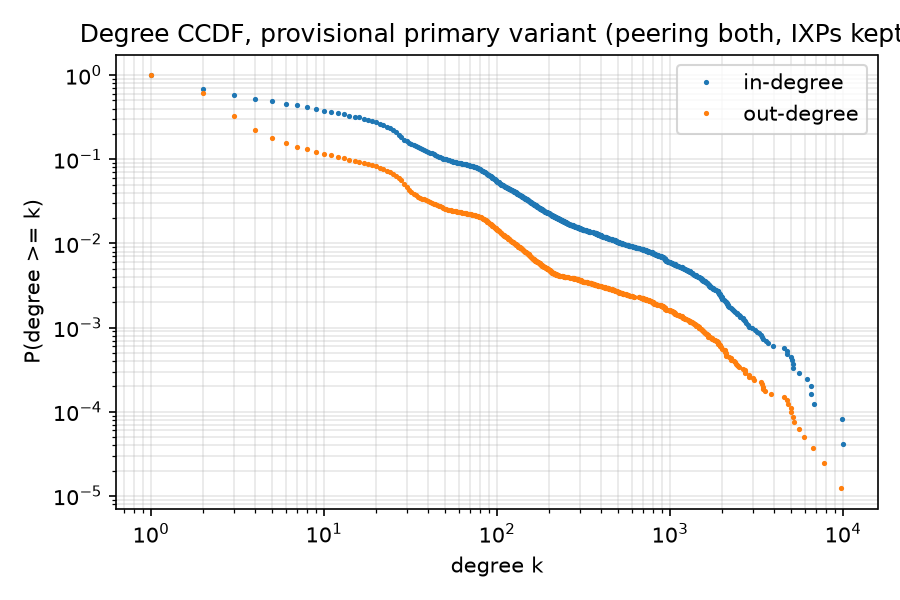
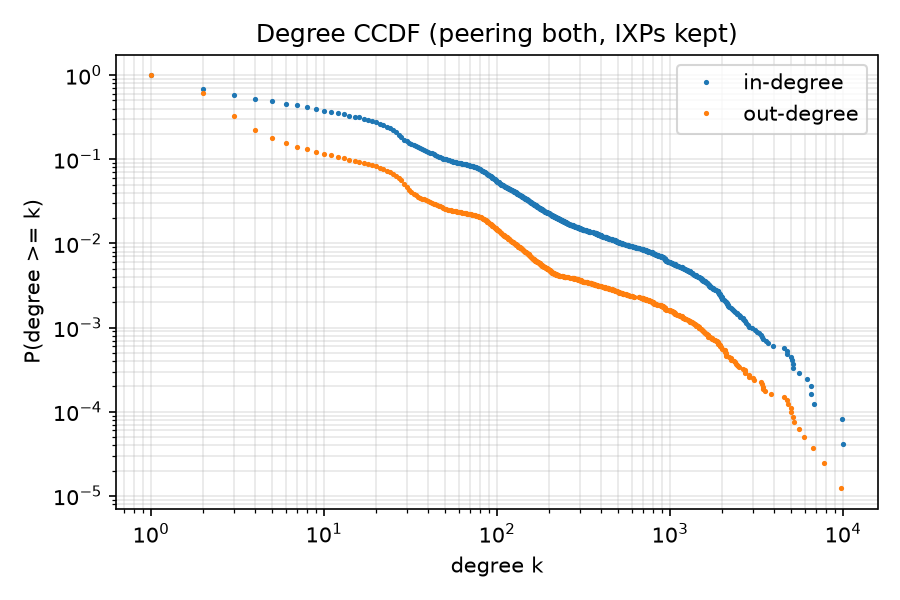
fix: the dangling set under no peering is the provider-free top of the hierarchy

Changed region(s): [[0.0933, 0.03, 1.0, 0.09]]

diff --git a/LAB_NOTEBOOK.md b/LAB_NOTEBOOK.md
@@ -964,3 +964,23 @@ measured.
   neither is picked. The ranking notebook reports the ranking under each.
 - Next: the core ranking on the provisional primary variant and the in-degree
   comparison.
+
+**Correction, 2026-10-16.** The dangling census above described the 494
+dangling nodes under peering `none` the wrong way round. I wrote that the
+input clique was *not* among them -- that clique members keep customer-provider
+edges "pointing away from them" -- and that the dangling set was some broader
+pool of peering-only ASes. That has the vote direction backwards. With votes
+running customer -> provider, an edge points away from the customer and into
+the provider, so it is a *customer* that has an out-edge, not a provider. A
+transit-free AS has no provider, hence no customer-provider out-edge, so once
+peering is dropped it has no out-edge at all and dangles. Verified on the saved
+`peering-none` build: the 494 dangling nodes are exactly the provider-free ASes
+(none is a customer in any `-1` row), every one of them has at least one
+peering link, and **all 18 input-clique members are among them**. The finding
+is the opposite of what I wrote and stronger for it: dropping peering makes
+precisely the most important ASes -- the top of the hierarchy -- leak their
+mass, which is the clearest argument for peering `both` as the primary model
+and the cleanest illustration of why the dangling treatment matters. The
+notebook prose and its section-9 bullet were corrected and a code cell now
+prints the three numbers (18 of 18 clique members dangling, 494 with a peering
+link, 494 customers of nobody) so the claim is backed by output.
